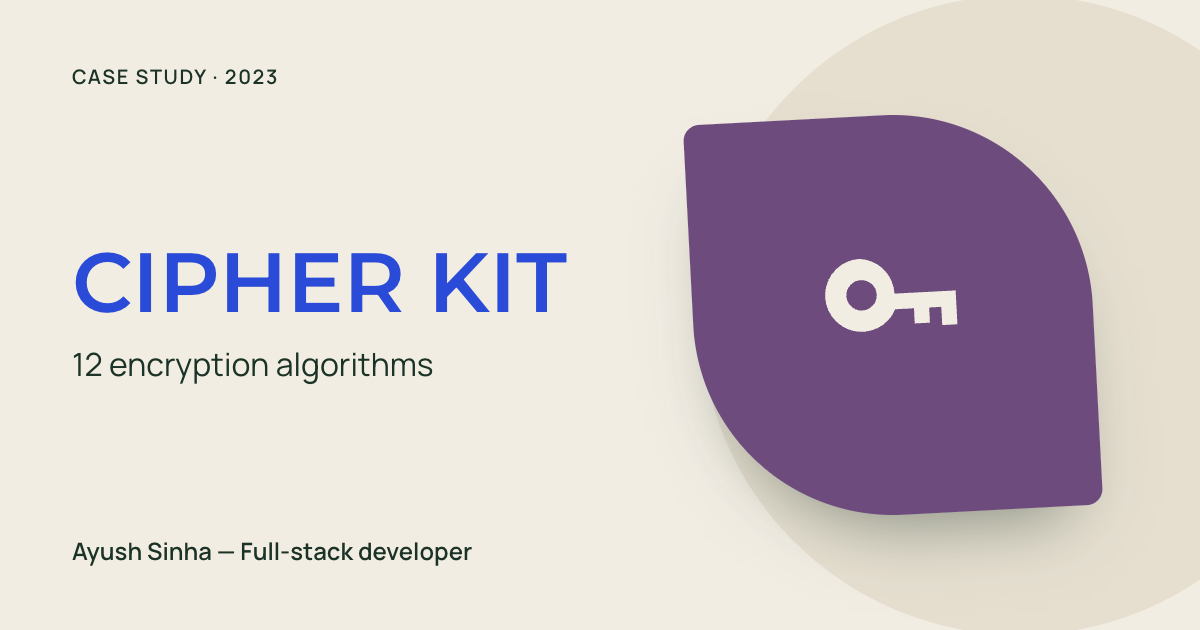
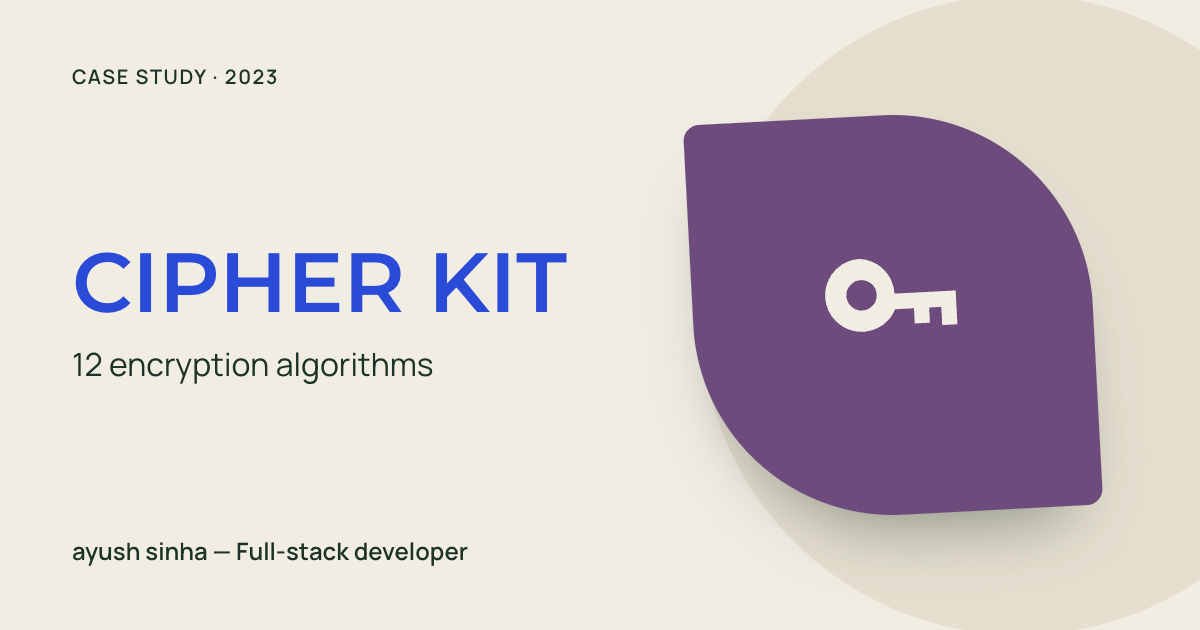
Write name in lowercase across the site

Changed region(s): [[0.0617, 0.8444, 0.4008, 0.9048]]

diff --git a/src/data/meta.ts b/src/data/meta.ts
@@ -9,41 +9,41 @@ export type PageMeta = { path: string; title: string; description: string; image
 export const pages: PageMeta[] = [
   {
     path: '/',
-    title: 'Ayush Sinha — Full-stack developer',
+    title: 'ayush sinha — Full-stack developer',
     description:
-      'Ayush Sinha is a full-stack developer from Delhi, India, shipping across backend, frontend and deployment with Node.js, TypeScript, PostgreSQL, React and Flutter.',
+      'ayush sinha is a full-stack developer from Delhi, India, shipping across backend, frontend and deployment with Node.js, TypeScript, PostgreSQL, React and Flutter.',
     image: 'og/default.png',
   },
   {
     path: '/work',
-    title: 'Work — Ayush Sinha',
+    title: 'Work — ayush sinha',
     description:
-      'Projects by Ayush Sinha across full-stack engineering, machine learning and security — from a group-travel API with 750 tests to an image-captioning web app.',
+      'Projects by ayush sinha across full-stack engineering, machine learning and security — from a group-travel API with 750 tests to an image-captioning web app.',
     image: 'og/default.png',
   },
   {
     path: '/experience',
-    title: 'Experience — Ayush Sinha',
+    title: 'Experience — ayush sinha',
     description:
       'Web developer intern at Electronic Point, cyber security trainee at Ernst & Young and intern at HighRadius.',
     image: 'og/default.png',
   },
   {
     path: '/about',
-    title: 'About — Ayush Sinha',
+    title: 'About — ayush sinha',
     description:
       'Full-stack developer from Delhi who verifies everything before it ships. Toolkit, education and certifications.',
     image: 'og/default.png',
   },
   {
     path: '/contact',
-    title: 'Contact — Ayush Sinha',
+    title: 'Contact — ayush sinha',
     description: 'Open to full-stack and backend roles. Email, GitHub, LinkedIn and resume.',
     image: 'og/default.png',
   },
   ...projects.map((p) => ({
     path: `/work/${p.slug}`,
-    title: `${p.title} — Ayush Sinha`,
+    title: `${p.title} — ayush sinha`,
     description: p.summary,
     image: `og/${p.slug}.png`,
   })),

diff --git a/index.html b/index.html
@@ -3,19 +3,19 @@
   <head>
     <meta charset="UTF-8" />
     <meta name="viewport" content="width=device-width, initial-scale=1" />
-    <title>Ayush Sinha — Full-stack developer</title>
-    <meta name="description" content="Ayush Sinha is a full-stack developer from Delhi, India, shipping across backend, frontend and deployment with Node.js, TypeScript, PostgreSQL, React and Flutter." />
+    <title>ayush sinha — Full-stack developer</title>
+    <meta name="description" content="ayush sinha is a full-stack developer from Delhi, India, shipping across backend, frontend and deployment with Node.js, TypeScript, PostgreSQL, React and Flutter." />
     <meta name="theme-color" content="#f2ede3" />
-    <meta property="og:title" content="Ayush Sinha — Full-stack developer" />
+    <meta property="og:title" content="ayush sinha — Full-stack developer" />
     <meta property="og:description" content="Backend, frontend and deployment — and following the work into production." />
     <meta property="og:type" content="website" />
-    <meta property="og:site_name" content="Ayush Sinha" />
+    <meta property="og:site_name" content="ayush sinha" />
     <meta property="og:url" content="https://ayushsinha0804.github.io/Portfolio/" />
     <meta property="og:image" content="https://ayushsinha0804.github.io/Portfolio/og/default.png" />
     <meta property="og:image:width" content="1200" />
     <meta property="og:image:height" content="630" />
     <meta name="twitter:card" content="summary_large_image" />
-    <meta name="twitter:title" content="Ayush Sinha — Full-stack developer" />
+    <meta name="twitter:title" content="ayush sinha — Full-stack developer" />
     <meta name="twitter:description" content="Backend, frontend and deployment — and following the work into production." />
     <meta name="twitter:image" content="https://ayushsinha0804.github.io/Portfolio/og/default.png" />
     <link rel="canonical" href="https://ayushsinha0804.github.io/Portfolio/" />

diff --git a/src/components/Portrait.tsx b/src/components/Portrait.tsx
@@ -45,13 +45,13 @@ export default function Portrait() {
         <span className="portrait__piece portrait__piece--b" aria-hidden="true"><Glyph name="braces" /></span>
         <figure className="portrait__frame" data-cursor="Hello">
           <div className="portrait__media">
-            <img src={portrait} alt="Ayush Sinha holding a white cat" width={720} height={1280} loading="lazy" decoding="async" />
+            <img src={portrait} alt="ayush sinha holding a white cat" width={720} height={1280} loading="lazy" decoding="async" />
           </div>
           <span className="portrait__tint" aria-hidden="true" />
         </figure>
       </div>
       <div className="portrait__text">
-        <Reveal as="h2" className="portrait__title" mode="chars">Hi, I’m Ayush.</Reveal>
+        <Reveal as="h2" className="portrait__title" mode="chars">hi, i’m ayush.</Reveal>
         <Reveal as="p" className="portrait__lead">
           I enjoy creating things that live on the internet — and making sure they keep working once they’re out there.
         </Reveal>

diff --git a/src/components/Header.tsx b/src/components/Header.tsx
@@ -45,9 +45,9 @@ export default function Header() {
           </TLink>
         </div>
         <div className="site-header__brand">
-          <TLink to="/" className="site-header__brand-link" aria-label="Ayush Sinha, home">
+          <TLink to="/" className="site-header__brand-link" aria-label="ayush sinha, home">
             <span className="site-header__brand-track">
-              <span className="site-header__brand-full">Ayush Sinha</span>
+              <span className="site-header__brand-full">ayush sinha</span>
               <span className="site-header__brand-mark" aria-hidden="true">
                 <span className="rhombus" />
               </span>

diff --git a/src/styles/components.css b/src/styles/components.css
@@ -118,7 +118,7 @@ body.is-transitioning .page-transition { pointer-events: auto; }
 .site-header__brand-full, .site-header__brand-mark { grid-area: 1 / 1; justify-self: center; align-self: center; }
 .site-header__brand-full {
   font-family: var(--font-display); font-weight: var(--display-weight); font-size: clamp(1.6rem, 1.2rem + 1vw, 2.3rem); line-height: 1;
-  text-transform: uppercase; white-space: nowrap;
+  text-transform: lowercase; white-space: nowrap;
   transition: transform 0.7s var(--ease-premium), opacity 0.3s;
 }
 .site-header__brand-mark { color: var(--accent); transform: scale(0); transition: transform 0.6s var(--ease-premium); }

diff --git a/src/styles/pages.css b/src/styles/pages.css
@@ -144,7 +144,7 @@
 .portrait__piece--a { width: clamp(48px, 6vw, 90px); left: 4%; top: 8%; color: var(--ochre); }
 .portrait__piece--b { width: clamp(60px, 8vw, 120px); right: 2%; bottom: 6%; color: var(--accent); }
 .portrait__title {
-  font-family: var(--font-display); font-weight: var(--display-weight); text-transform: uppercase; color: var(--accent);
+  font-family: var(--font-display); font-weight: var(--display-weight); text-transform: lowercase; color: var(--accent);
   font-size: var(--text-hero); line-height: 0.92;
 }
 .portrait__lead { margin-top: var(--space-s); font-size: var(--text-large); line-height: 1.25; max-width: 560px; }

diff --git a/src/lib/site.tsx b/src/lib/site.tsx
@@ -74,7 +74,7 @@ export function SiteProvider({ children }: { children: ReactNode }) {
   // Per-route <title> and description
   useEffect(() => {
     const m = metaFor(location.pathname)
-    document.title = m?.title ?? 'Page not found — Ayush Sinha'
+    document.title = m?.title ?? 'Page not found — ayush sinha'
     document.querySelector('meta[name="description"]')?.setAttribute('content', m?.description ?? '')
   }, [location.pathname])
 

diff --git a/src/pages/Home.tsx b/src/pages/Home.tsx
@@ -3,7 +3,7 @@ import ProjectBelt from '../components/ProjectBelt'
 export default function Home() {
   return (
     <main id="main" className="home">
-      <h1 className="visually-hidden">Ayush Sinha — full-stack developer building across backend, frontend and deployment</h1>
+      <h1 className="visually-hidden">ayush sinha — full-stack developer building across backend, frontend and deployment</h1>
       <ProjectBelt />
     </main>
   )

diff --git a/scripts/postbuild.ts b/scripts/postbuild.ts
@@ -61,7 +61,7 @@ for (const m of pages) {
 writeFileSync(
   join(DIST, '404.html'),
   render(
-    { path: null, title: 'Page not found — Ayush Sinha', description: 'This page could not be found.', image: 'og/default.png' },
+    { path: null, title: 'Page not found — ayush sinha', description: 'This page could not be found.', image: 'og/default.png' },
     '  <meta name="robots" content="noindex" />\n  ',
   ),
 )

diff --git a/src/data/content.ts b/src/data/content.ts
@@ -33,7 +33,7 @@ export type Project = {
 }
 
 export const person = {
-  name: 'Ayush Sinha',
+  name: 'ayush sinha',
   role: 'Full-stack developer',
   location: 'Delhi, India',
   timezone: 'Asia/Kolkata',

diff --git a/CHANGELOG.md b/CHANGELOG.md
@@ -5,6 +5,17 @@ Live site: https://ayushsinha0804.github.io/Portfolio/
 
 ---
 
+## 2026-11-19 — Lowercase name
+
+### Changed
+- The name is now written in lowercase ("ayush sinha") across the site:
+  - the header logo and the About heading, which now reads "hi, i'm ayush."
+  - the footer and all page titles and search descriptions
+  - the link-preview images and the structured data
+- README rewritten for recruiters and developers.
+
+---
+
 ## 2026-11-15 — Copy
 
 ### Changed
